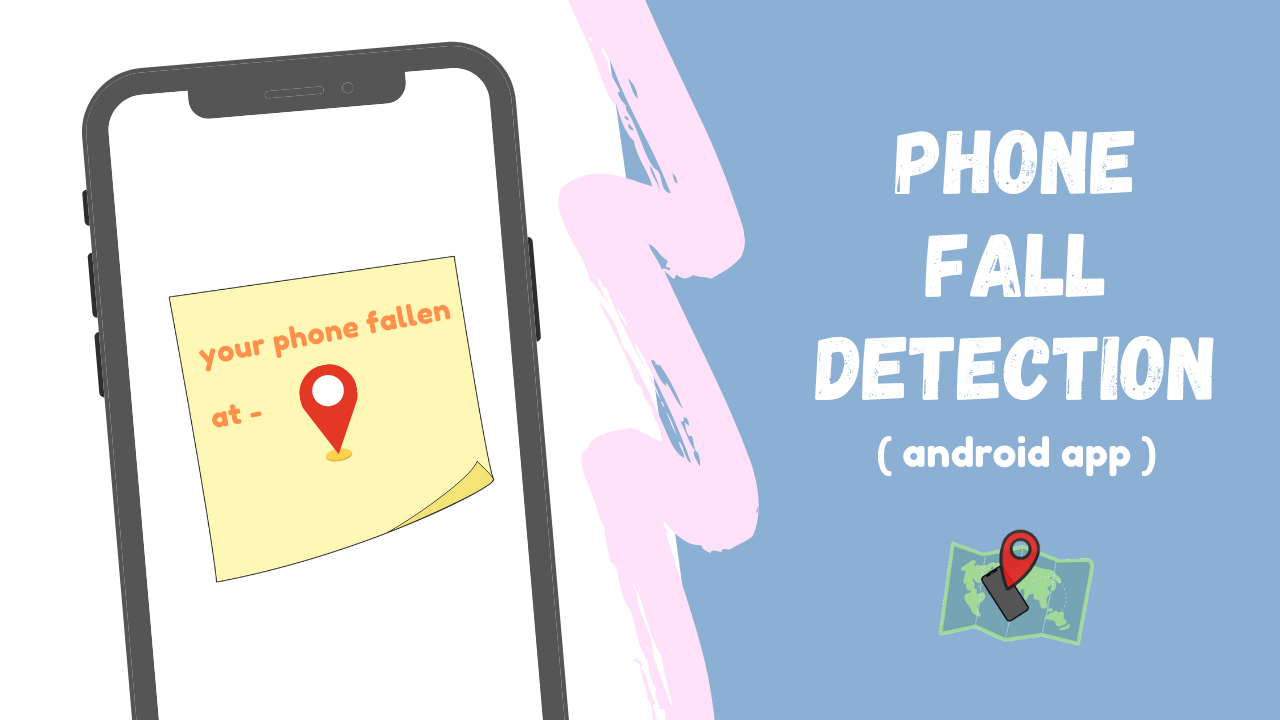
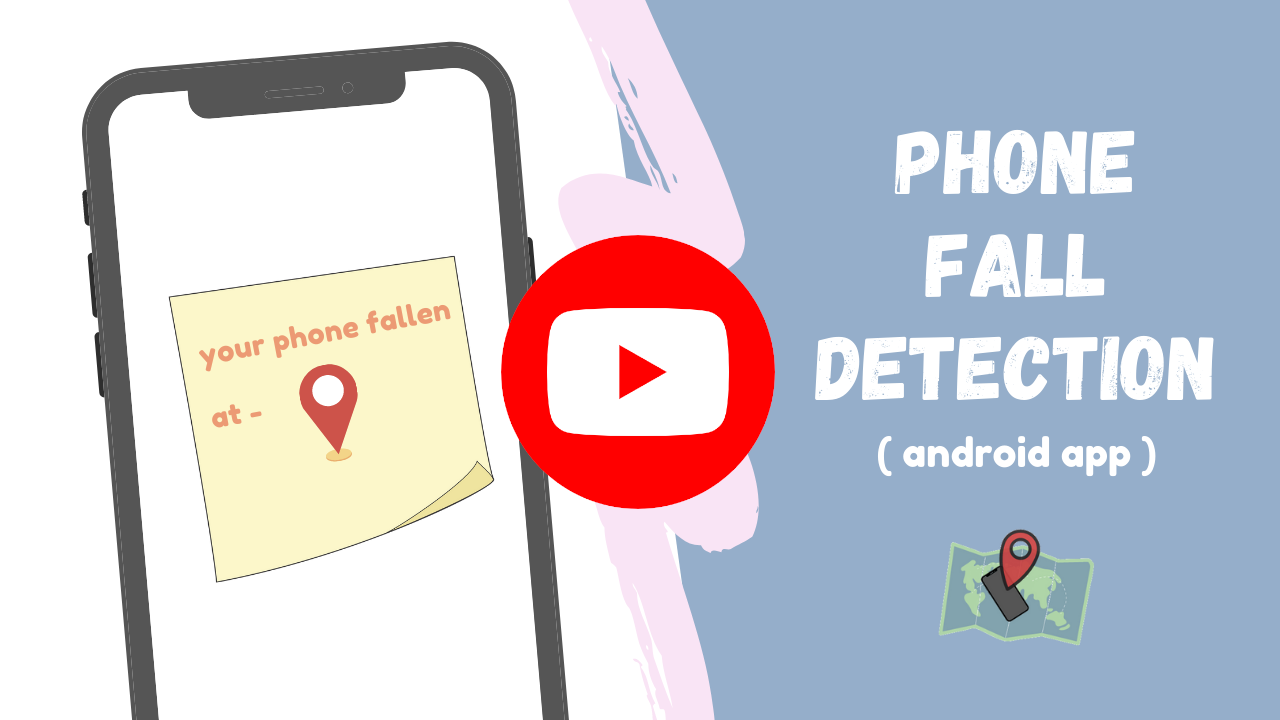
v3

diff --git a/index.html b/index.html
@@ -24,15 +24,16 @@
         <div>
           <nav class="navbar navbar-expand-lg navbar-light">
           <div class="container-fluid">
-          <a class="navbar-brand" href=""><img src="images/logo.png" class="brand-img"></a>
+          <a class="navbar-brand" href="#top_section"><img src="images/logo.png" class="brand-img"></a>
           <button class="navbar-toggler" type="button" data-bs-toggle="collapse" data-bs-target="#navbarSupportedContent" aria-controls="navbarSupportedContent" aria-expanded="false" aria-label="Toggle navigation">
           <span class="navbar-toggler-icon"></span>
         </button>
         <div class="collapse navbar-collapse" id="navbarSupportedContent">
           <ul class="navbar-nav ml-auto">
             <li class="nav-item"><a href="#features_section" class="nav-link">Features</a></li>
+            <li class="nav-item"><a href="#download_section" class="nav-link">Download</a></li>
             <li class="nav-item"><a href="#contact_section" class="nav-link">Contact Me</a></li>
-            <li class="nav-item"><a href="" class="nav-link">About me</a></li>
+            <li class="nav-item"><a href="https://pawandeep-prog.github.io/programming-hut/" class="nav-link">About me</a></li>
           </ul>
           </div>
         </div>
@@ -43,12 +44,12 @@
 
         <div class="container-fluid container-padding">
             <div class="row">
-                <div class="col-lg-6 title">
+                <div class="col-lg-8 title">
                     <h1 class="large_title">Fall Detector</h1>
                     <h3>Alerts with fall location of device</h3>
-                    <a href="https://github.com/Pawandeep-prog/apks/blob/main/fallDetect_newP.apk"><button class="btn btn-light btn-lg">Download</button></a>
+                    <a href="https://raw.githubusercontent.com/Pawandeep-prog/apks/main/Fall%20Detector.apk"><button class="btn btn-light btn-lg">Download</button></a>
                 </div>
-                <div class="col-lg-6">
+                <div class="col-lg-4">
                     <img src="images/0.png" class="title_img">
                 </div>
             </div>
@@ -158,7 +159,7 @@
 
             <div class="row">
                 <div class="col">
-                    <img src="images/phone fall detection.png" class="watch_img">
+                    <a href="https://www.youtube.com/c/ProgrammingHutofficial/"><img src="images/phone fall detection.png" class="watch_img"></a>
                 </div>
             </div>
 
@@ -176,7 +177,7 @@
 
             <h1 class="feature_head">Download it Today</h1>
 
-            <a href="https://github.com/Pawandeep-prog/apks/blob/main/fallDetect_newP.apk">
+            <a href="https://raw.githubusercontent.com/Pawandeep-prog/apks/main/Fall%20Detector.apk">
             <button class="btn btn-light btn-lg down_btn"><h1>Download</h1></button>
         </a>
             
@@ -191,13 +192,19 @@
 
             <div class="row">
                 <div class="col-sm-4">
-                    <img src="images/fb.png" class="contact_img">
+                    <a href="https://m.facebook.com/proogramminghub">
+                        <img src="images/fb.png" class="contact_img">
+                    </a>
                 </div>
                 <div class="col-sm-4">
-                    <img src="images/youtube.png" class="contact_img">
+                    <a href="https://www.youtube.com/c/programminghutofficial">
+                        <img src="images/youtube.png" class="contact_img">
+                    </a>
                 </div>
                 <div class="col-sm-4">
-                    <img src="images/linkedin.png" class="contact_img">
+                    <a href="https://www.linkedin.com/in/programminghut">
+                        <img src="images/linkedin.png" class="contact_img">
+                    </a>
                 </div>
             </div>
             
@@ -205,12 +212,9 @@
     </section>
 
 
-    <script src="https://cdn.jsdelivr.net/npm/bootstrap@5.0.2/dist/js/bootstrap.bundle.min.js" integrity="sha384-MrcW6ZMFYlzcLA8Nl+NtUVF0sA7MsXsP1UyJoMp4YLEuNSfAP+JcXn/tWtIaxVXM" crossorigin="anonymous"></script>
-    <script src="https://cdn.jsdelivr.net/npm/@popperjs/core@2.9.2/dist/umd/popper.min.js" integrity="sha384-IQsoLXl5PILFhosVNubq5LC7Qb9DXgDA9i+tQ8Zj3iwWAwPtgFTxbJ8NT4GN1R8p" crossorigin="anonymous"></script>
-    <script src="https://cdn.jsdelivr.net/npm/bootstrap@5.0.2/dist/js/bootstrap.min.js" integrity="sha384-cVKIPhGWiC2Al4u+LWgxfKTRIcfu0JTxR+EQDz/bgldoEyl4H0zUF0QKbrJ0EcQF" crossorigin="anonymous"></script>
-    <script src="js/jquery-1.7.1.min.js"></script>
-    <script src="js/bootstrap.js"></script>
-    
+    <!-- bootstrap script -->
+    <script src="https://cdn.jsdelivr.net/npm/bootstrap@5.0.0-beta3/dist/js/bootstrap.bundle.min.js" integrity="sha384-JEW9xMcG8R+pH31jmWH6WWP0WintQrMb4s7ZOdauHnUtxwoG2vI5DkLtS3qm9Ekf" crossorigin="anonymous"></script>
+
     <!-- my js -->
     <script src="script.js"></script>
   </body>

diff --git a/styles.css b/styles.css
@@ -21,7 +21,7 @@ color: #7ed857;
 	margin-top: 60px;
 }
 .title_img{
-	width: 70%;
+	width: 65%;
 	transform: rotate(10deg);
 	margin-left: 5px;
 	margin-top: 10px;
@@ -65,6 +65,10 @@ color: #7ed857;
 .watch_img{
 	width: 60%;
 	margin-bottom: 40px;
+}
+.watch_img:hover{
+	width: 62%;
+	transition-duration: 0.5s;
 }
 
 #download_section{
@@ -133,13 +137,17 @@ color: #7ed857;
 	.watch_img{
 		width: 100%;
 	}
+	.watch_img:hover{
+	width: 105%;
+	transition-duration: 0.5s;
+}
   .title_img {
     position: static;
     width: 90%;
     transform: rotate(0);
   }
   .down_btn{
-  	width: 60%;
+  	width: 70%;
   }
   .feature_head{
   	font-size: 50px;
@@ -147,5 +155,8 @@ color: #7ed857;
   .carousal-img{
 	width: 50%;
 	margin-top: 20px;
+}
+.brand-img{
+	width: 100px;
 }
 }
